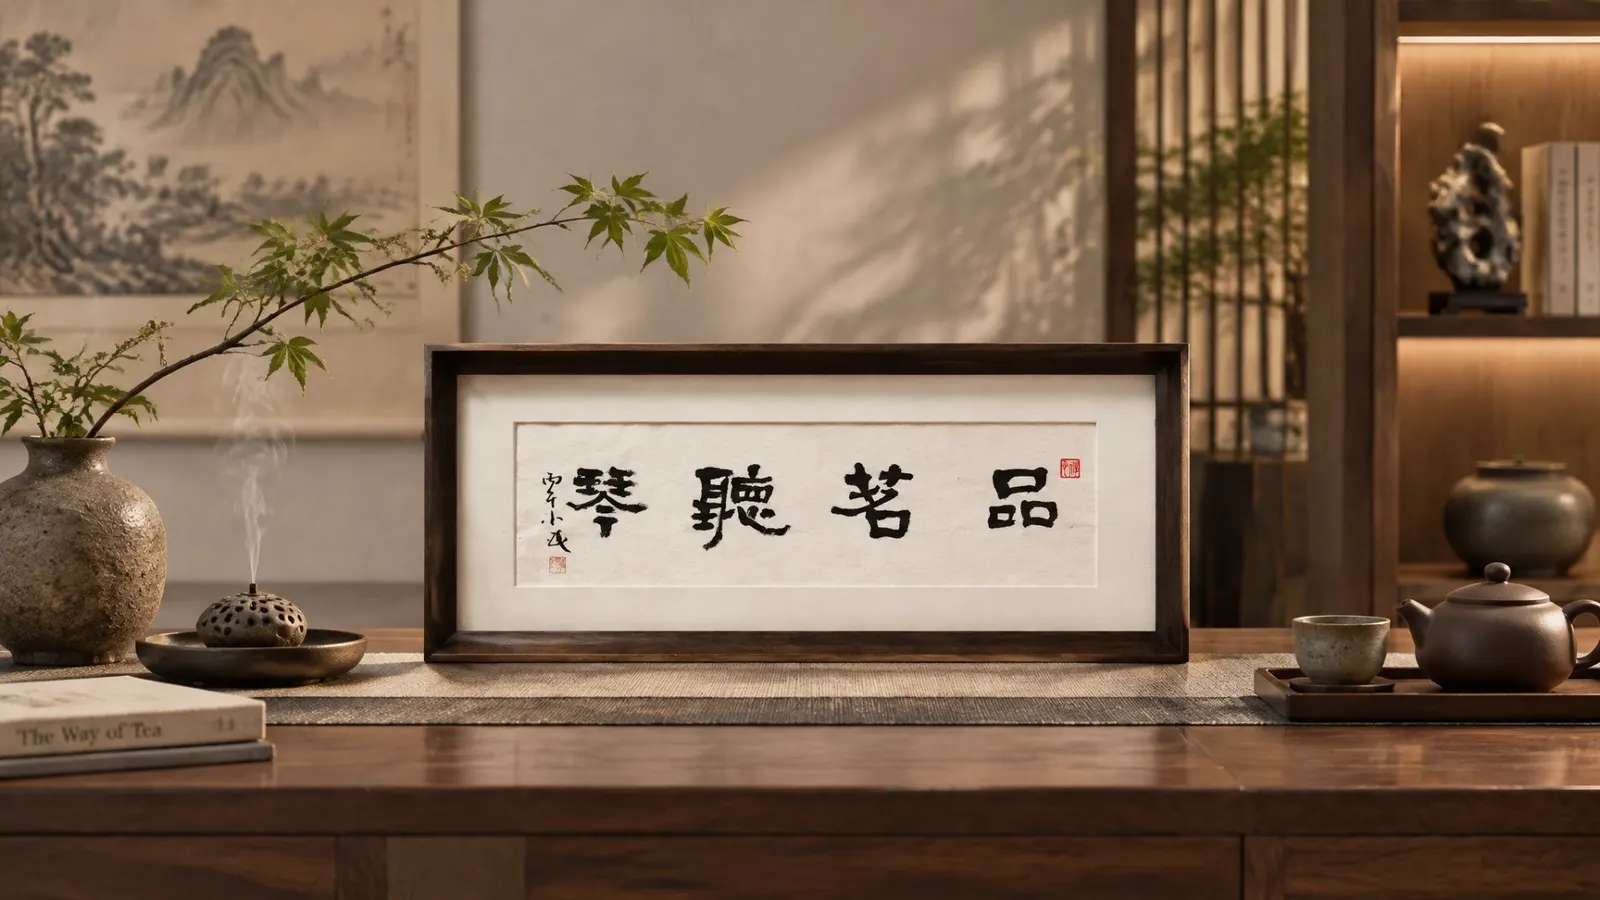
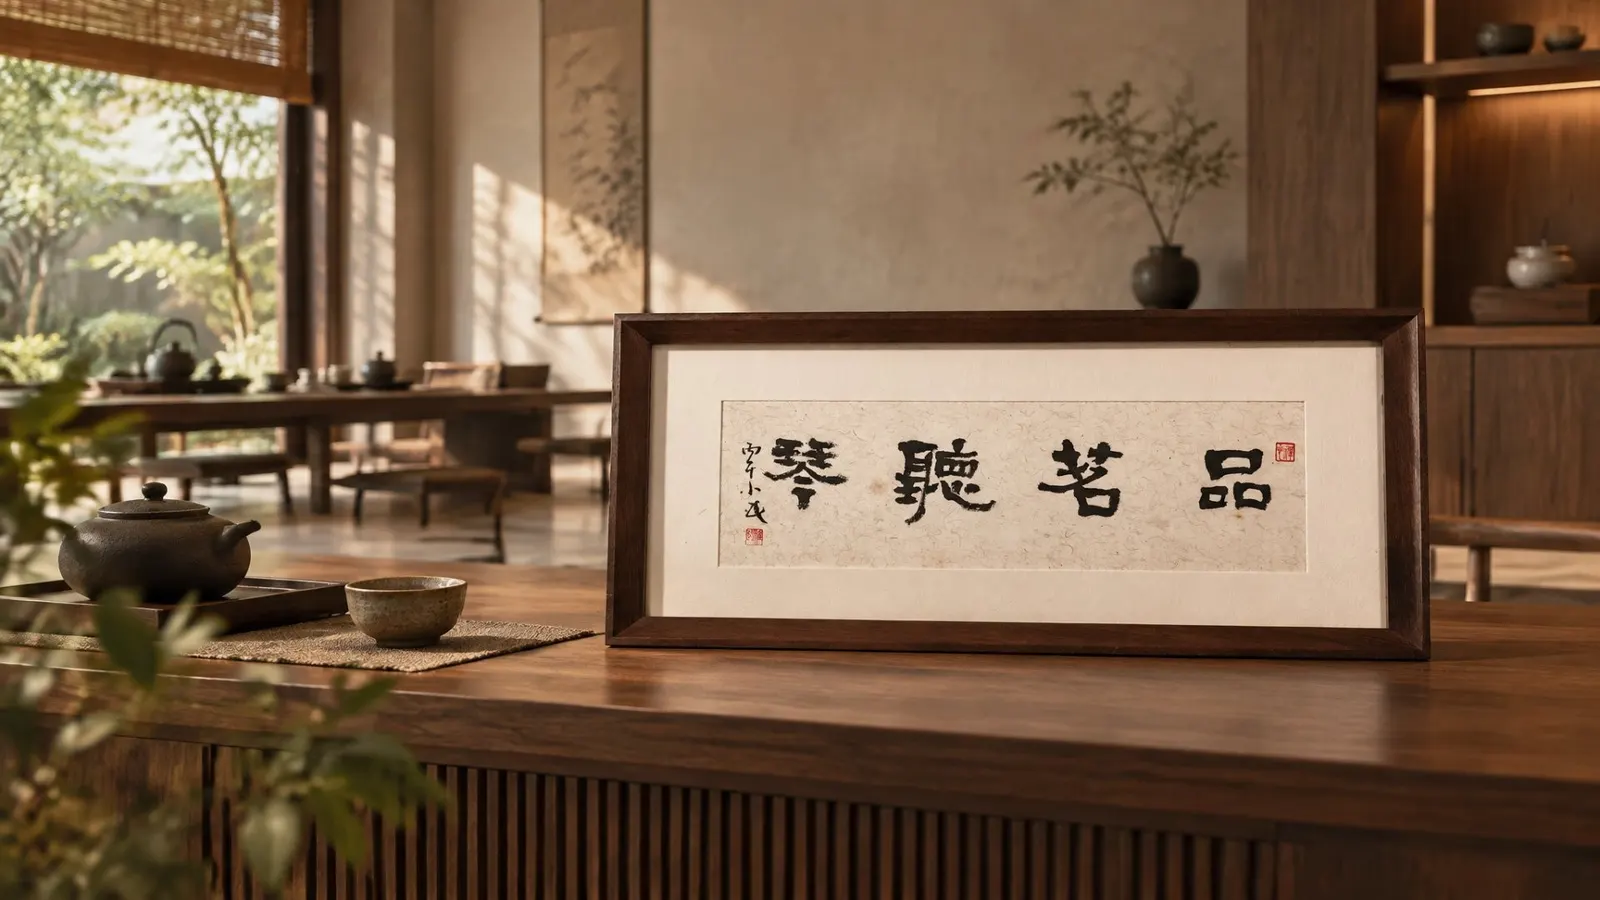
v17: add 8 new works (bao-pu-han-zhang, bai-hua-qi-fang, nian-hua-yi-xiao, nan-de-hu-tu, wu-kong, guan-gu-zhi-jin, he-qi vertical); refresh pin-ming-ting-qin photo

diff --git a/src/data/content.ts b/src/data/content.ts
@@ -670,6 +670,66 @@ export const giftProducts: GiftProduct[] = [
         { label: '尺寸公差', value: '木框 ±0.5 cm，画芯 ±0.3 cm，以实物为准' },
         { label: '选材', value: '黑胡桃实木框条、光学级玻璃面板' } ] },
     ] },
+  { slug: 'bao-pu-han-zhang', name: '抱樸含章 · 书房修养', en: 'Hold Simplicity, Harbor Excellence', scene: 'opening', sceneLabel: '开业贺礼', tier: 'entry', price: '¥199', meaning: '「抱朴」守本真，出自《老子》；「含章」敛光华，出自《易经》「含章可贞」。四个字是做事的人的修养：外面收敛，里面扎实——挂在书房、办公室，是一种不张扬的底气。', recipient: '适合送给踏实做事的伙伴、管理者，或挂在书房自勉。', dispatch: '现货 · 48 小时内顺丰直发', packaging: '黑胡桃实木装裱 · 含藏品证书与释读卡 · 礼盒包装', visual: '樸', image: '/assets/works/bao-pu-han-zhang.jpg',
+    deepDive: [
+      { eyebrow: 'Chapter 01 / 释读', heading: '「抱樸含章」写的什么', paragraphs: ['行楷四字横幅，墨色沉稳。「抱樸含章」——守住朴素，含藏文章：才华不必外露，本真自然动人。纪年题款钤印，释读卡随附。'] },
+      { eyebrow: 'Chapter 02 / 规格', heading: '产品规格', specs: [
+        { label: '装裱外框', value: '约 40.5 × 17.5 cm（横幅）' },
+        { label: '画芯尺寸', value: '约 38 × 15 cm，四周留白装裱' },
+        { label: '框体', value: '黑胡桃实木框 · 厚约 3 cm，桌面支架与挂墙两用' },
+        { label: '尺寸公差', value: '木框 ±0.5 cm，画芯 ±0.3 cm，以实物为准' },
+        { label: '选材', value: '黑胡桃实木框条、光学级玻璃面板' } ] },
+    ] },
+  { slug: 'bai-hua-qi-fang', name: '百花齊放 · 厅堂生气', en: 'A Hundred Flowers in Bloom', scene: 'festival', sceneLabel: '节日问候', tier: 'entry', price: '¥199', meaning: '百花齐放，春满厅堂。四个字挂在客厅，一屋子的生机与热闹——好日子就该是这样：各开各的花，一起成个春天。', recipient: '适合乔迁、春节，或送给刚布置好客厅的朋友。', dispatch: '现货 · 48 小时内顺丰直发', packaging: '黑胡桃实木装裱 · 含藏品证书与释读卡 · 礼盒包装', visual: '花', image: '/assets/works/bai-hua-qi-fang.jpg',
+    deepDive: [
+      { eyebrow: 'Chapter 01 / 释读', heading: '「百花齊放」写的什么', paragraphs: ['隶书四字横幅，字势开张如花枝舒展。挂在客厅矮柜上方，与窗外的绿意互相呼应——热闹，但不吵。纪年题款钤印。'] },
+      { eyebrow: 'Chapter 02 / 规格', heading: '产品规格', specs: [
+        { label: '装裱外框', value: '约 40.5 × 17.5 cm（横幅）' },
+        { label: '画芯尺寸', value: '约 38 × 15 cm，四周留白装裱' },
+        { label: '框体', value: '黑胡桃实木框 · 厚约 3 cm，桌面支架与挂墙两用' },
+        { label: '尺寸公差', value: '木框 ±0.5 cm，画芯 ±0.3 cm，以实物为准' },
+        { label: '选材', value: '黑胡桃实木框条、光学级玻璃面板' } ] },
+    ] },
+  { slug: 'nian-hua-yi-xiao', name: '拈花一笑 · 玄关禅语', en: 'A Flower Held, A Smile Shared', scene: 'housewarming', sceneLabel: '乔迁之喜', tier: 'entry', price: '¥199', meaning: '佛家公案：拈花不语，一笑心知。四个字挂在玄关、走廊，是给懂的人看的——最好的默契，不必说破。', recipient: '适合送给心照不宣的老友，或挂在玄关端景。', dispatch: '现货 · 48 小时内顺丰直发', packaging: '黑胡桃实木装裱 · 含藏品证书与释读卡 · 礼盒包装', visual: '笑', image: '/assets/works/nian-hua-yi-xiao.jpg',
+    deepDive: [
+      { eyebrow: 'Chapter 01 / 释读', heading: '「拈花一笑」写的什么', paragraphs: ['隶书四字横幅。「拈花一笑」讲的是心传：迦叶尊者见佛拈花而微笑，禅便这样开始了。字写得轻松，像那声没说出口的笑。纪年题款钤印。'] },
+      { eyebrow: 'Chapter 02 / 规格', heading: '产品规格', specs: [
+        { label: '装裱外框', value: '约 40.5 × 17.5 cm（横幅）' },
+        { label: '画芯尺寸', value: '约 38 × 15 cm，四周留白装裱' },
+        { label: '框体', value: '黑胡桃实木框 · 厚约 3 cm，桌面支架与挂墙两用' },
+        { label: '尺寸公差', value: '木框 ±0.5 cm，画芯 ±0.3 cm，以实物为准' },
+        { label: '选材', value: '黑胡桃实木框条、光学级玻璃面板' } ] },
+    ] },
+  { slug: 'nan-de-hu-tu', name: '難得糊塗 · 豁达横幅', en: 'Good to Be Foolish', scene: 'housewarming', sceneLabel: '乔迁之喜', tier: 'entry', price: '¥199', meaning: '郑板桥的老话：聪明难，糊涂难，由聪明而转入糊涂更难。四个字挂在书房、餐桌，是过来人的豁达——较真的事放下一些，日子松一些。', recipient: '适合送给事事认真的朋友，或挂在书房自警。', dispatch: '现货 · 48 小时内顺丰直发', packaging: '黑胡桃实木装裱 · 含藏品证书与释读卡 · 礼盒包装', visual: '糊', image: '/assets/works/nan-de-hu-tu.jpg',
+    deepDive: [
+      { eyebrow: 'Chapter 01 / 释读', heading: '「難得糊塗」写的什么', paragraphs: ['隶书四字横幅。「難得糊塗」不是真糊涂，是知道什么该计较、什么该放过。字形朴拙，正合这句话的憨劲。纪年题款钤印。'] },
+      { eyebrow: 'Chapter 02 / 规格', heading: '产品规格', specs: [
+        { label: '装裱外框', value: '约 40.5 × 17.5 cm（横幅）' },
+        { label: '画芯尺寸', value: '约 38 × 15 cm，四周留白装裱' },
+        { label: '框体', value: '黑胡桃实木框 · 厚约 3 cm，桌面支架与挂墙两用' },
+        { label: '尺寸公差', value: '木框 ±0.5 cm，画芯 ±0.3 cm，以实物为准' },
+        { label: '选材', value: '黑胡桃实木框条、光学级玻璃面板' } ] },
+    ] },
+  { slug: 'wu-kong', name: '悟空 · 禅室大字', en: 'Awakened to Emptiness', scene: 'festival', sceneLabel: '节日问候', tier: 'entry', price: '¥199', meaning: '「悟空」两个字，是佛家的功课，也是每个人的功课——悟得空处，才装得下万物。大字旁以行书小字题长款，挂在茶室、禅室，气象很大。', recipient: '适合送给礼佛、习禅的友人，或作为茶室禅房的空间供养。', dispatch: '现货 · 48 小时内顺丰直发', packaging: '黑胡桃实木装裱 · 含藏品证书与释读卡 · 礼盒包装', visual: '悟', image: '/assets/works/wu-kong.jpg',
+    deepDive: [
+      { eyebrow: 'Chapter 01 / 释读', heading: '「悟空」写的什么', paragraphs: ['古文字大字「悟空」横幅，旁以行书小字题写长款并纪年钤印。「色即是空，空即是色」——悟透一个「空」字，喝茶吃饭都是修行。与「般若」「南無阿彌陀佛」可成一组。'] },
+      { eyebrow: 'Chapter 02 / 规格', heading: '产品规格', specs: [
+        { label: '装裱外框', value: '约 40.5 × 17.5 cm（横幅）' },
+        { label: '画芯尺寸', value: '约 38 × 15 cm，四周留白装裱' },
+        { label: '框体', value: '黑胡桃实木框 · 厚约 3 cm，桌面支架与挂墙两用' },
+        { label: '尺寸公差', value: '木框 ±0.5 cm，画芯 ±0.3 cm，以实物为准' },
+        { label: '选材', value: '黑胡桃实木框条、光学级玻璃面板' } ] },
+    ] },
+  { slug: 'guan-gu-zhi-jin', name: '觀古知今 · 书房箴言', en: 'Study the Past, Know the Present', scene: 'opening', sceneLabel: '开业贺礼', tier: 'entry', price: '¥199', meaning: '观古知今——历史里的事，今天还在发生。四个字挂在办公室、书房，是做决策的人的案头功夫：看得懂过去，才看得清前路。', recipient: '适合送给管理者、研究者，或挂在书房与会客区。', dispatch: '现货 · 48 小时内顺丰直发', packaging: '黑胡桃实木装裱 · 含藏品证书与释读卡 · 礼盒包装', visual: '古', image: '/assets/works/guan-gu-zhi-jin.jpg',
+    deepDive: [
+      { eyebrow: 'Chapter 01 / 释读', heading: '「觀古知今」写的什么', paragraphs: ['行书四字横幅，落款「丙午秋月小民」。觀字笔画开张，今字收束利落——一开一合，正是「以史为镜」的节奏。释读卡随附。'] },
+      { eyebrow: 'Chapter 02 / 规格', heading: '产品规格', specs: [
+        { label: '装裱外框', value: '约 40.5 × 17.5 cm（横幅）' },
+        { label: '画芯尺寸', value: '约 38 × 15 cm，四周留白装裱' },
+        { label: '框体', value: '黑胡桃实木框 · 厚约 3 cm，桌面支架与挂墙两用' },
+        { label: '尺寸公差', value: '木框 ±0.5 cm，画芯 ±0.3 cm，以实物为准' },
+        { label: '选材', value: '黑胡桃实木框条、光学级玻璃面板' } ] },
+    ] },
   { slug: 'bo-re', name: '般若 · 禅意二字', en: 'Prajna · Wisdom', scene: 'festival', sceneLabel: '节日问候', tier: 'entry', price: '¥199', meaning: '「般若」（读 bōrě）是佛家的最高智慧，《心经》全名即「般若波罗蜜多」。古文字竖幅两字，静置案头或禅室，是懂的人才接得住的一份心意。', recipient: '适合送给礼佛、习禅的长辈与友人，或挂在茶室、禅室一隅。', dispatch: '现货 · 48 小时内顺丰直发', packaging: '黑胡桃实木装裱 · 含藏品证书与释读卡 · 礼盒包装', visual: '若', image: '/assets/works/bo-re.jpg',
     deepDive: [
       { eyebrow: 'Chapter 01 / 释读', heading: '「般若」写的什么', paragraphs: ['古文字二字竖幅。「般若」是洞见空性的智慧，与「南無阿彌陀佛」六字横幅恰成一对。竖幅两字挂在茶室、禅室或书房，抬头即是提醒：自在不在远处。'] },
@@ -713,6 +773,16 @@ export const giftProducts: GiftProduct[] = [
   { slug: 'da-yin-xi-sheng', name: '大音希聲 · 竖幅禅语', en: 'The Greatest Sound Is Silence', scene: 'housewarming', sceneLabel: '乔迁之喜', tier: 'entry', price: '¥199', meaning: '语出《老子》「大音希声」——最大的声音反而听不见。竖幅挂在客厅、玄关，白卡黑字两三笔入眼，是懂的人才接得住的一句话。', recipient: '适合送给寡言而有力量的师长、朋友，或挂在需要一点静气的墙面。', dispatch: '现货 · 48 小时内顺丰直发', packaging: '黑胡桃实木装裱 · 含藏品证书与释读卡 · 礼盒包装', visual: '音', image: '/assets/works/da-yin-xi-sheng.jpg',
     deepDive: [
       { eyebrow: 'Chapter 01 / 释读', heading: '「大音希聲」写的什么', paragraphs: ['竖幅四字，白卡上以行楷书就，墨色极简。「希聲」二字收笔枯淡，正是「听不见」的那一分留白——最好的表达，是不必说满。'] },
+      { eyebrow: 'Chapter 02 / 规格', heading: '产品规格', specs: [
+        { label: '装裱外框', value: '约 17.5 × 40.5 cm（竖幅）' },
+        { label: '画芯尺寸', value: '约 15 × 38 cm，四周留白装裱' },
+        { label: '框体', value: '黑胡桃实木框 · 厚约 3 cm，桌面支架与挂墙两用' },
+        { label: '尺寸公差', value: '木框 ±0.5 cm，画芯 ±0.3 cm，以实物为准' },
+        { label: '选材', value: '黑胡桃实木框条、光学级玻璃面板' } ] },
+    ] },
+  { slug: 'he-qi', name: '和氣 · 古文字竖幅', en: 'Harmony in the Air', scene: 'housewarming', sceneLabel: '乔迁之喜', tier: 'entry', price: '¥199', meaning: '「和氣」二字以古文字写就，竖幅立在玄关——进门是和气，出门也和气。家和万事兴，生意和气生财，都从这两个字开始。', recipient: '适合乔迁、开店的朋友，或送给希望家中和气的长辈。', dispatch: '现货 · 48 小时内顺丰直发', packaging: '黑胡桃实木装裱 · 含藏品证书与释读卡 · 礼盒包装', visual: '和', image: '/assets/works/he-qi.jpg',
+    deepDive: [
+      { eyebrow: 'Chapter 01 / 释读', heading: '「和氣」写的什么', paragraphs: ['古文字二字竖幅，纪年题款钤印。「和」字古文从龠从禾，本是乐器相和之音；「氣」字一笔纵长，如气息绵延。竖幅挂在玄关或堂屋，抬头即是一团和气。'] },
       { eyebrow: 'Chapter 02 / 规格', heading: '产品规格', specs: [
         { label: '装裱外框', value: '约 17.5 × 40.5 cm（竖幅）' },
         { label: '画芯尺寸', value: '约 15 × 38 cm，四周留白装裱' },
